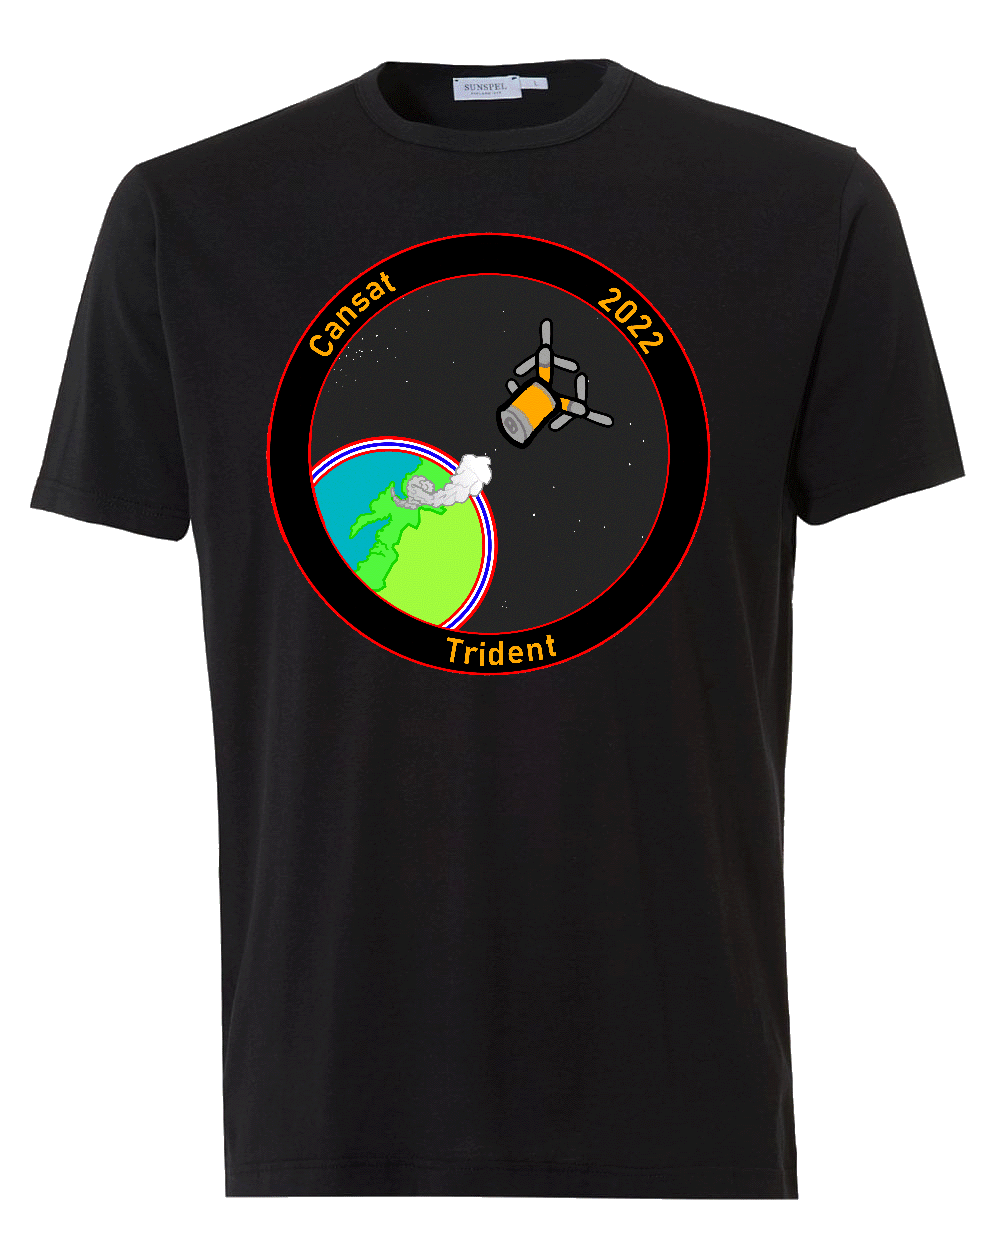
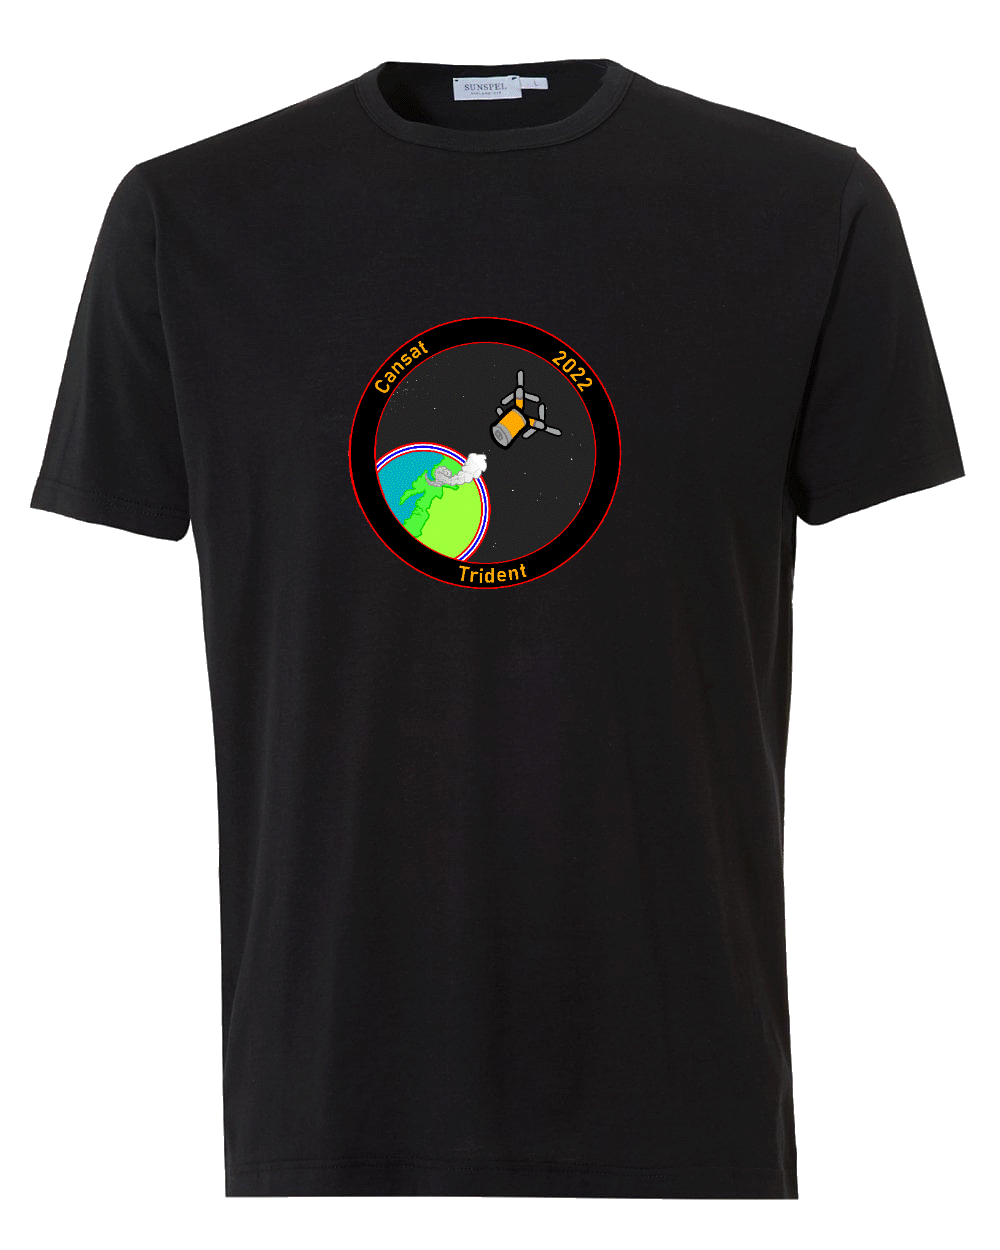
Div fixes shop

Changed region(s): [[0.248, 0.1872, 0.713, 0.5616], [0.465, 0.0624, 0.496, 0.0936]]

diff --git a/store.html b/store.html
@@ -85,11 +85,12 @@
     <section>
         <div class="container reveal"><span>
             <div class="column border-right">
-                <h2>Design</h2>
+                <h2>Design*</h2>
             </span></div>
             
             <div class="column"><span>
                     <img src="images/design.png" style="width: 50%;padding-left: 5%;">
+                    
             </span></div>
         </div>
     </section>
@@ -105,8 +106,9 @@
                     <p>
                         <h3>Vi selger t-skjorter til en betal så mye du vil pris. 
                         <br>Minstepris er på </h3><br>
-                        <div class="smaller"><h2>200 kr + frakt</h2></div>
-                        <br><h3>Frakt koster 46 + konv pris kr??? [HUSK FRAKT PRIS + KONV PRIS]</h3>
+                        <div class="smaller"><h2>150 kr + frakt</h2></div>
+                        <br><h3>Frakt koster 46 + konv pris kr??? [HUSK FRAKT PRIS + KONV PRIS]
+                            <br>Ved kjøp av flere t-skjorter kan øvrige konstnader komme</h3>
                     </p>
             </span></div>
         </div>
@@ -115,7 +117,7 @@
     <section>
         <div class="container reveal"><span>
             <div class="column border-right">
-                <h2>Hvordan kjøper jeg?</h2>
+                <h2>Hvordan kjøpe?</h2>
             </span></div>
             
             <div class="column"><span>
@@ -164,6 +166,7 @@
 
    <section>
         <div class="container reveal bordertop2"><span>
+            <h3>*T-skjorten vil se noe annerledes ut i virkeligheten</h3>
             <h4><br><i>We expect most of our customers to be located in Norway, therefore the rest of the page is in Norwegian. If you don't live in Norway but wish to buy a t-shirt, email us at CanSatTrident@gmail.com and we may be able to ship to you. Exstra costs will apply.</i></h4>
         </span></div>
     </section>

diff --git a/animation-style.css b/animation-style.css
@@ -283,4 +283,8 @@ AlwaysShowSection .reveal{
     line-height: normal;
     padding-top: 50%;
   }
+  .smaller h2 {
+    padding-left: 0;
+    text-align: center;
+  }
 }
